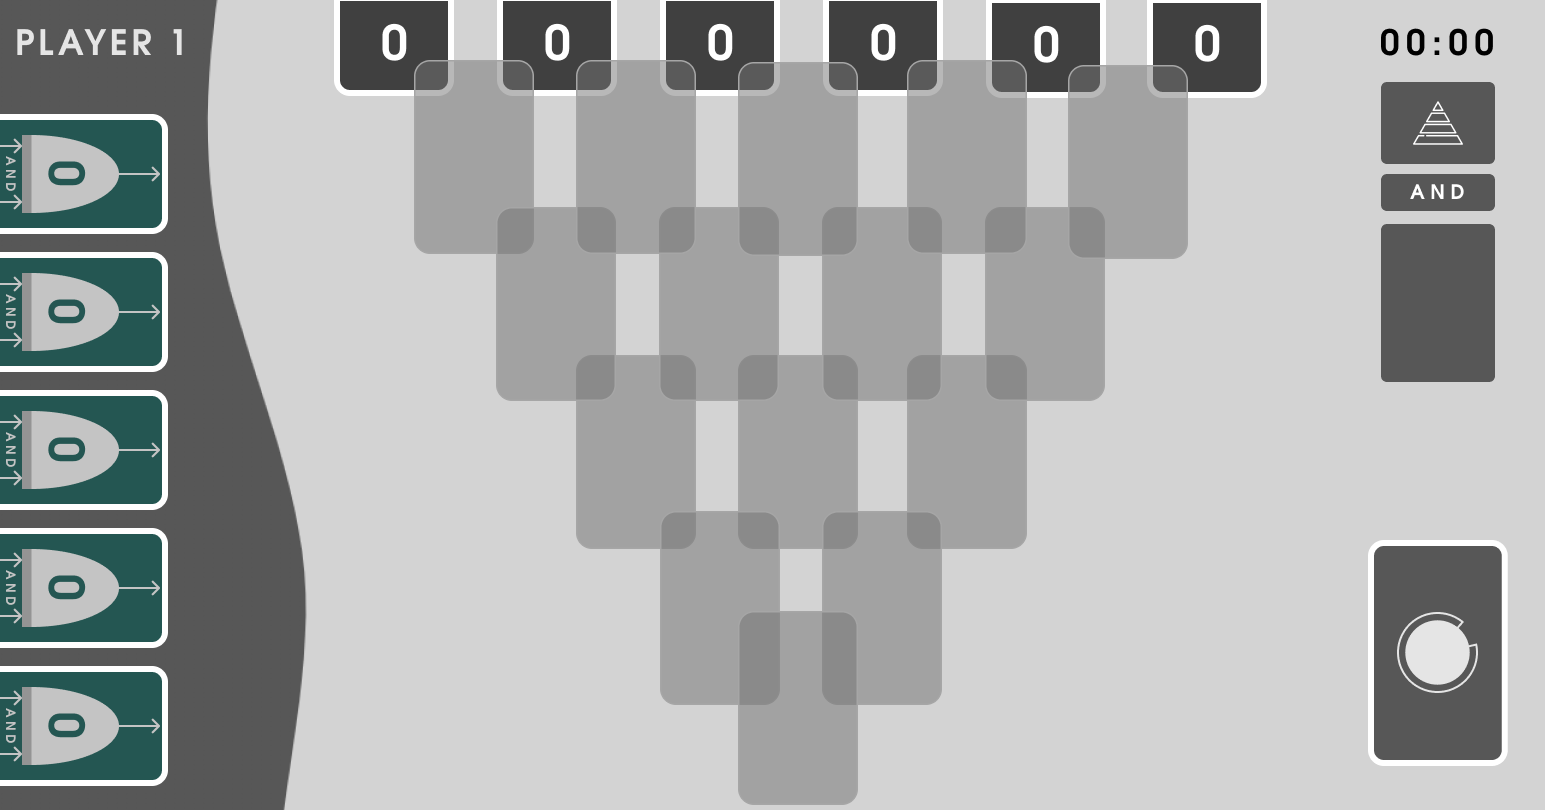
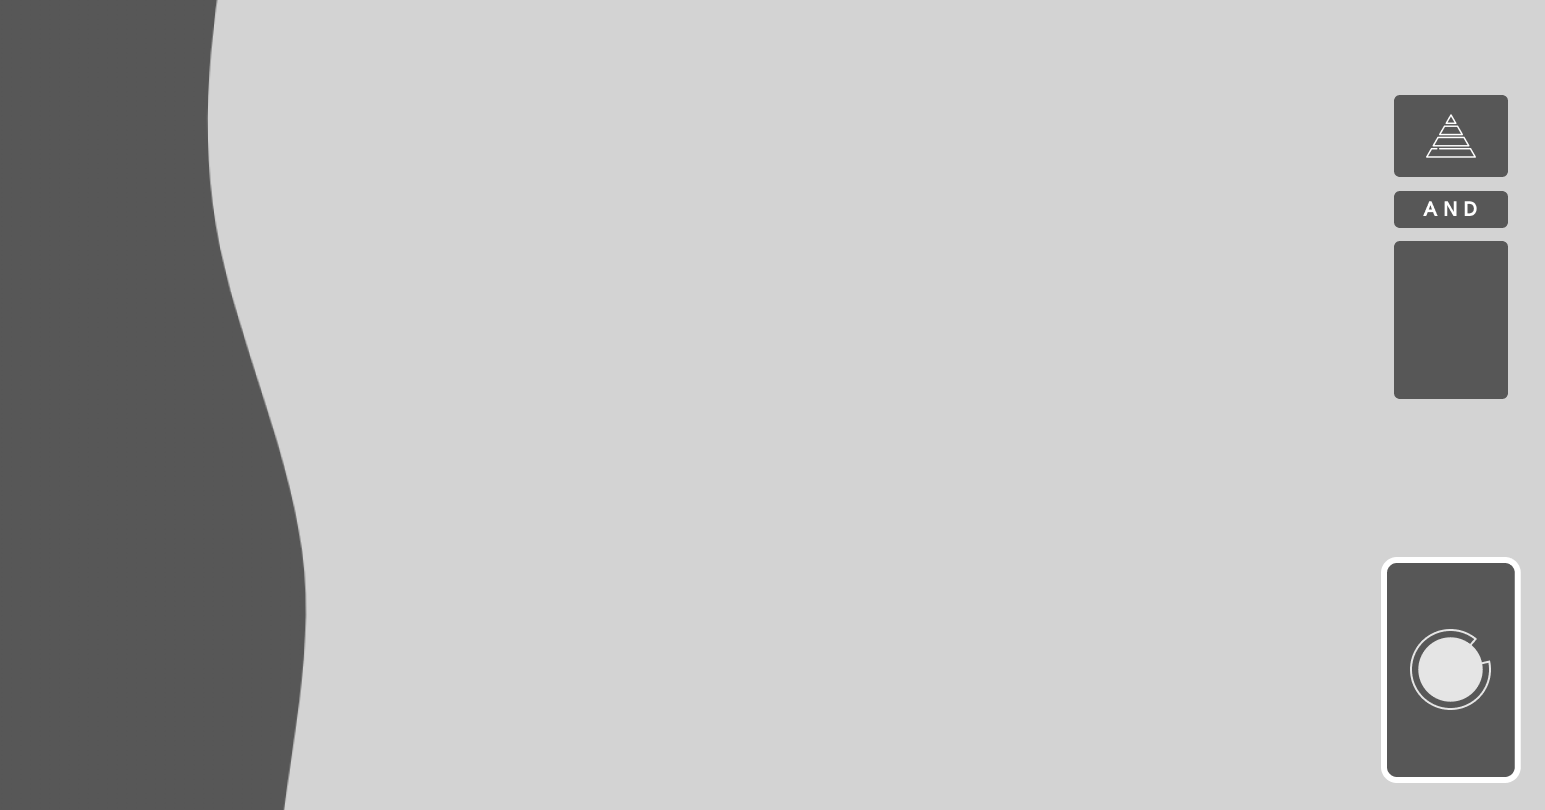
Start first mode

diff --git a/Game/Program/BooleoGame/Game.cpp b/Game/Program/BooleoGame/Game.cpp
@@ -58,8 +58,27 @@ void Game::render()
 	this->window->display();
 }
 
-void Game::update()
+void Game::update(sf::Window& newWindow)
 {
+	if (getMousePos(1394, 191, 3, newWindow)) // Table Button:
+	{
+		if (sf::Mouse::isButtonPressed(sf::Mouse::Left))
+		{
+			if (!pressed) 
+			{
+				tableNum++;
+				if (tableNum == 3)
+				{
+					tableNum = 0;
+				}
+				pressed = true;
+				}
+			}
+			else 
+			{
+				pressed = false;
+			}
+		}
 	pollEvents();
 }
 
@@ -77,6 +96,12 @@ bool Game::getMousePos(float x, float y, int a, sf::Window &newWindow)
 		break;
 	case 2:
 		if ((mousepos.x + 8 >= x && mousepos.x + 8 <= x + 310) && (mousepos.y + 8 >= y && mousepos.y + 8 <= y + 470))
+		{
+			return 1;
+		}
+		break;
+	case 3:
+		if ((mousepos.x + 8 >= x && mousepos.x + 8 <= x + 114) && (mousepos.y + 8 >= y && mousepos.y + 8 <= y + 37))
 		{
 			return 1;
 		}
@@ -177,8 +202,7 @@ void Game::modes(sf::Window& newWindow)
 		{
 			ready = 1;
 			gamemodeNum = 1;
-			this->backgroundTexture.loadFromFile("assets/GameField.png");
-			this->backgroundSprite.setTexture(backgroundTexture);
+			setPlay();
 		}
 	}
 	else if (getMousePos(445, 170, 2, newWindow)) // Second mode:
@@ -236,6 +260,23 @@ void Game::customCursor()
 	this->window->setMouseCursor(cursor);
 }
 
+void Game::setPlay()
+{
+	this->backgroundTexture.loadFromFile("assets/GameField.png");
+	this->backgroundSprite.setTexture(backgroundTexture);
+	player1TextTexture.loadFromFile("assets/Player1Text.png");
+	this->player1TextTexture.setSmooth(true);
+	player1Text.setTexture(player1TextTexture);
+	player1Text.setPosition(15, 12);
+	player2TextTexture.loadFromFile("assets/Player2Text.png");
+	this->player2TextTexture.setSmooth(true);
+	player2Text.setTexture(player2TextTexture);
+	player2Text.setPosition(15, 12);
+	this->buttonTable.setSize(sf::Vector2f(114, 37));
+	this->buttonTable.setPosition(1394, 191);
+	this->buttonTable.setFillColor(sf::Color(80, 255, 0));
+}
+
 void Game::setReady()
 {
 	this->window->setPosition(sf::Vector2i(190, 80));
@@ -267,38 +308,77 @@ void Game::start()
 		{
 			if (gamemodeNum == 1)
 			{
+				if (counter == 0)
+				{
+					counter++;
+				}
+				else if (counter == 1) // Player 1 round
+				{
+
+
+					
+					
 
 
 
 
 
+					this->window->clear();
+					this->window->draw(this->backgroundSprite);
+					this->window->draw(this->player1Text);
+					if (tableNum == 0)
+					{
+						TruthTableTexture.loadFromFile("assets/AndTable.png");
+						this->TruthTableTexture.setSmooth(true);
+						TruthTable.setTexture(TruthTableTexture);
+						TruthTable.setPosition(1390, 240);
+						this->window->draw(this->TruthTable);
+					}
+					else if (tableNum == 1)
+					{
+
+					}
+					else if (tableNum == 2)
+					{
+
+					}
+					this->window->display();
+					update(*this->window);
+				}
+				else if (counter == 2) // Player 2 round
+				{
 
 
 
 
-
-				update();
-				render();
+					counter++;
+					update(*this->window);
+					render();
+				}
+				else
+				{
+					counter = 1;
+				}
 			}
 			else if (gamemodeNum == 2)
 			{
 				this->backgroundTexture.loadFromFile("assets/Play.png");
 				this->backgroundSprite.setTexture(backgroundTexture);
-				update();
+				update(*this->window);
 				render();
 			}
 			else if (gamemodeNum == 3)
 			{
 				this->backgroundTexture.loadFromFile("assets/Play.png");
 				this->backgroundSprite.setTexture(backgroundTexture);
-				update();
+				update(*this->window);
 				render();
 			}
 			else if (gamemodeNum == 4)
 			{
 				this->backgroundTexture.loadFromFile("assets/Play.png");
 				this->backgroundSprite.setTexture(backgroundTexture);
-				update();
+				update(*this->window);
 				render();
 			}
 			

diff --git a/Game/Program/BooleoGame/Game.h b/Game/Program/BooleoGame/Game.h
@@ -38,11 +38,24 @@ private:
 	sf::RectangleShape button3;
 	sf::RectangleShape button4;
 
+
 	void init_window();
 
+
+	// Some more game realeted stuff :P
 	bool ready = 0;
 	bool gameMode = 0;
 	int gamemodeNum = 0;
+	int counter = 0;
+	int tableNum = 0;
+	bool pressed = false;
+	sf::Texture player1TextTexture;
+	sf::Sprite player1Text;
+	sf::Texture player2TextTexture;
+	sf::Sprite player2Text;
+	sf::RectangleShape buttonTable;
+	sf::Texture TruthTableTexture;
+	sf::Sprite TruthTable;
 
 public:
 
@@ -59,8 +72,9 @@ public:
 	void customCursor(); // Setting the custom cursor
 	void setTheIcon(); // Icon for the window
 	void setReady(); // Config everything before the start of the game
+	void setPlay(); // Config the game before playing
 	bool getMousePos(float x, float y, int a, sf::Window& newWindow); // Getting the mouse position
-	void update(); // Main function to change values every iteration
+	void update(sf::Window& newWindow); // Main function to change values every iteration
 	void render(); // Main function to render objects every iteration
 	void setBackground(); // Function to display background
 };
